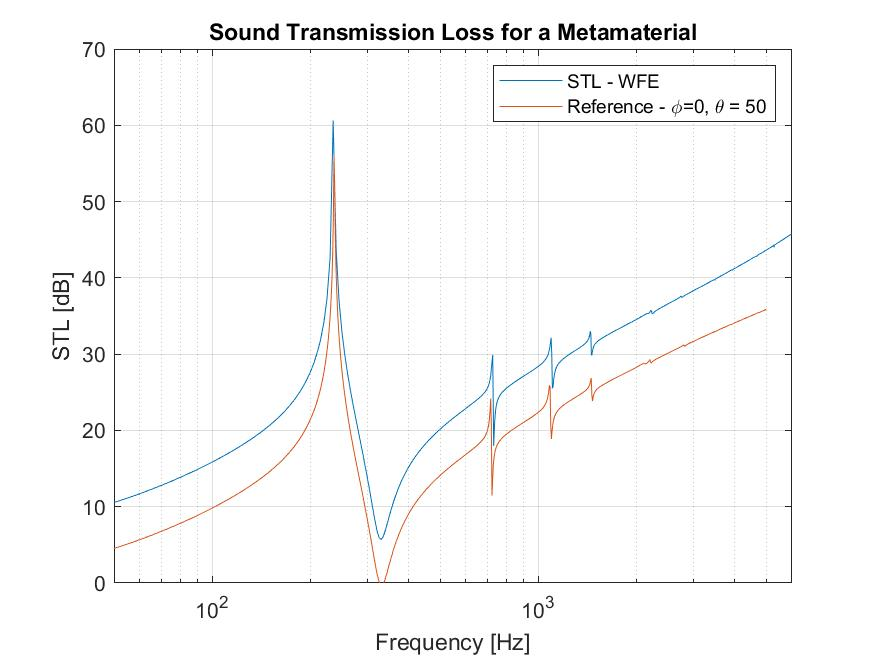
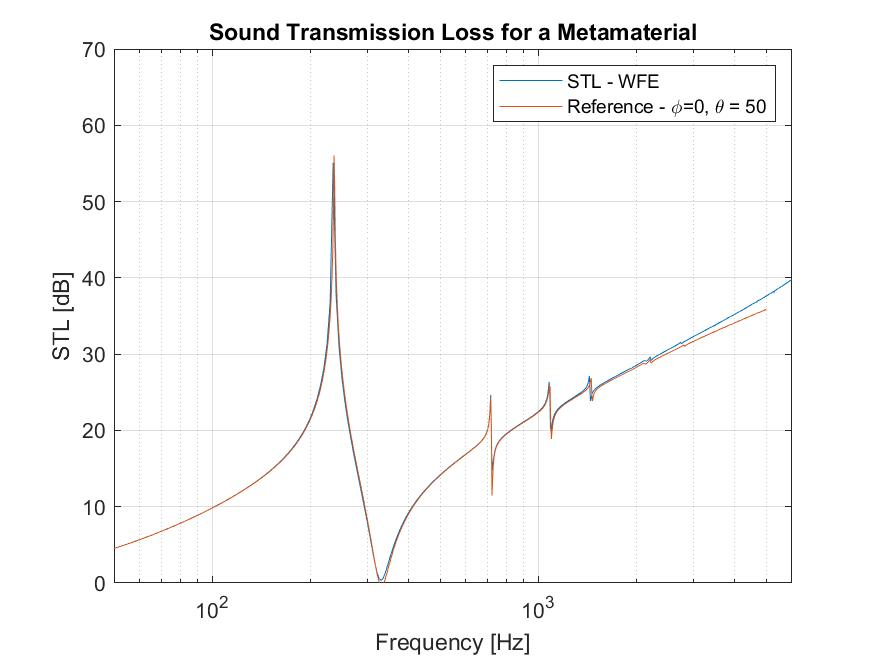
alteracoes 20/07/22

diff --git a/consolidado_lumped/main_stl_plate_resonators_consolidado_caso_geral.m b/consolidado_lumped/main_stl_plate_resonators_consolidado_caso_geral.m
@@ -202,8 +202,8 @@ kzmn_p(i,:,:) = kz1mn;
 rho1=rho0;
 rho2=rho0;
 %Equation 10
-Df1mn = (-1j*rho1*w^2)./(kz1mn);
-Df2mn = (-1j*rho2*w^2)./(kz2mn); 
+Df1mn = (1j*rho1*w^2)./(kz1mn);
+Df2mn = (1j*rho2*w^2)./(kz2mn); 
 
 % end Part 6
 
@@ -218,7 +218,7 @@ Fext2=zeros(GDof+numberRes,1);
 Fext = force_external_lumped(nnode,nelem,elem,nodes,P_inc,kx,ky,A_element);
 
 %Adding rotational degrees of freedom
-Fext2(1:3:GDof)= Fext;
+Fext2(1:3:GDof)= 2*Fext;
  
 % end Part 7
 
@@ -328,7 +328,7 @@ W1_mn= zeros(m_index,n_index);
  
  %Amplitude of the sound pressure harmonics
  %Equation 9
- P1_mn = -Df1mn.*W1_mn;
+ P1_mn = Df1mn.*W1_mn;
  P2_mn =  Df2mn.*W2_mn;
  
  
@@ -359,12 +359,9 @@ tau1_aux =(1/rho1)*kz1mn;
 
 tau_mn_num= real(tau2_aux.*abs(P2_mn.^2));
 tau_mn_den = tau1_aux.*abs((P_inc*ones(m_index,n_index)).^2);
-% tau_mn_num= real(abs(P2_mn.^2));
-% tau_mn_den = abs((P_inc*ones(m_index,n_index)).^2);
-
-
 
 tau_mn = tau_mn_num./tau_mn_den;
+
 %summation
 tau = sum(sum(tau_mn),2);     
 
@@ -392,19 +389,26 @@ end
 
 %% AMPLITUDE OF HARMONICS GRAPH
 
-figure
+% figure
+% 
+% W1_mn_interest = W1_mn_store(:,:,20);
+% stem3(m,n,real(W1_mn_interest),'filled')
+% hold on
+% stem3(m,n,imag(W1_mn_interest),'--*r')
+% title('Absolute values of harmonics for a given frequency')
+% 
+% figure
+% max_W1_mn=max(W1_mn_interest);
+% stem3(m,n,real(W1_mn_interest./max_W1_mn),'filled')
+% hold on
+% stem3(m,n,imag(W1_mn_interest./max_W1_mn),'--*r')
+% title('Normalized values of harmonics for a given frequency')
 
-W1_mn_interest = W1_mn_store(:,:,20);
-stem3(m,n,real(W1_mn_interest),'filled')
-hold on
-stem3(m,n,imag(W1_mn_interest),'--*r')
-title('Absolute values of harmonics for a given frequency')
 
 figure
-max_W1_mn=max(W1_mn_interest);
-stem3(m,n,real(W1_mn_interest./max_W1_mn),'filled')
-hold on
-stem3(m,n,imag(W1_mn_interest./max_W1_mn),'--*r')
+W1_mn_interest = W1_mn_store(:,:,57);
+max_W1_mn = max(max(W1_mn_interest));
+heatmap(m,n,log10(abs(real(W1_mn_interest./max_W1_mn))))
 title('Normalized values of harmonics for a given frequency')
 
 
@@ -460,59 +464,59 @@ figure
 %     end
 % end
 
-plot(f,abs(real(kzmn_p(:,5,1))),'LineWidth',2)
-hold on
-plot(f,-abs(imag(kzmn_p(:,5,1))),'LineWidth',2)
-hold on
-plot(f,abs(real(kzmn_p(:,6,1))),'LineWidth',2)
-hold on
-plot(f,-abs(imag(kzmn_p(:,6,1))),'LineWidth',2)
-hold on
-plot(f,abs(real(kzmn_p(:,7,1))),'LineWidth',2)
-hold on
-plot(f,-abs(imag(kzmn_p(:,7,1))),'LineWidth',2)
-hold on
-plot(f,abs(real(kzmn_p(:,8,1))),'LineWidth',2)
-hold on
-plot(f,-abs(imag(kzmn_p(:,8,1))),'LineWidth',2)
-hold on
-plot(f,abs(real(kzmn_p(:,9,1))),'LineWidth',2)
-hold on
-plot(f,-abs(imag(kzmn_p(:,9,1))),'LineWidth',2)
-
-legend('Real m=0,n=0','Imag m=0,n=0','Real m=1,n=0','Imag m=1,n=0',...
-    'Real m=2,n=0','Imag m=2,n=0','Real m=3,n=0','Imag m=3,n=0', 'Real m=4,n=0','Imag m=4,n=0')
-
-title('Postive Harmonics of kzmn at the fluid')
-xlabel('Frequency [Hz]')
-ylabel('kz_mn [2\pi/m]')  
-
-figure
-
-plot(f,abs(real(kzmn_p(:,1,1))),'LineWidth',2)
-hold on
-plot(f,-abs(imag(kzmn_p(:,1,1))),'LineWidth',2)
-hold on
-plot(f,abs(real(kzmn_p(:,2,1))),'LineWidth',2)
-hold on
-plot(f,-abs(imag(kzmn_p(:,2,1))),'LineWidth',2)
-hold on
-plot(f,abs(real(kzmn_p(:,3,1))),'LineWidth',2)
-hold on
-plot(f,-abs(imag(kzmn_p(:,3,1))),'LineWidth',2)
-hold on
-plot(f,abs(real(kzmn_p(:,4,1))),'LineWidth',2)
-hold on
-plot(f,-abs(imag(kzmn_p(:,4,1))),'LineWidth',2)
-
-
-
-legend('Real m=-4,n=0','Imag m=-4,n=0','Real m=-3,n=0','Imag m=-3,n=0',...
-    'Real m=-2,n=0','Imag m=-2,n=0','Real m=-1,n=0','Imag m=-1,n=0')
-
-title('Negative Harmonics of kzmn at the fluid')
-xlabel('Frequency [Hz]')
-ylabel('kz_mn [2\pi/m]')  
+% plot(f,abs(real(kzmn_p(:,5,1))),'LineWidth',2)
+% hold on
+% plot(f,-abs(imag(kzmn_p(:,5,1))),'LineWidth',2)
+% hold on
+% plot(f,abs(real(kzmn_p(:,6,1))),'LineWidth',2)
+% hold on
+% plot(f,-abs(imag(kzmn_p(:,6,1))),'LineWidth',2)
+% hold on
+% plot(f,abs(real(kzmn_p(:,7,1))),'LineWidth',2)
+% hold on
+% plot(f,-abs(imag(kzmn_p(:,7,1))),'LineWidth',2)
+% hold on
+% plot(f,abs(real(kzmn_p(:,8,1))),'LineWidth',2)
+% hold on
+% plot(f,-abs(imag(kzmn_p(:,8,1))),'LineWidth',2)
+% hold on
+% plot(f,abs(real(kzmn_p(:,9,1))),'LineWidth',2)
+% hold on
+% plot(f,-abs(imag(kzmn_p(:,9,1))),'LineWidth',2)
+% 
+% legend('Real m=0,n=0','Imag m=0,n=0','Real m=1,n=0','Imag m=1,n=0',...
+%     'Real m=2,n=0','Imag m=2,n=0','Real m=3,n=0','Imag m=3,n=0', 'Real m=4,n=0','Imag m=4,n=0')
+% 
+% title('Postive Harmonics of kzmn at the fluid')
+% xlabel('Frequency [Hz]')
+% ylabel('kz_mn [2\pi/m]')  
+% 
+% figure
+% 
+% plot(f,abs(real(kzmn_p(:,1,1))),'LineWidth',2)
+% hold on
+% plot(f,-abs(imag(kzmn_p(:,1,1))),'LineWidth',2)
+% hold on
+% plot(f,abs(real(kzmn_p(:,2,1))),'LineWidth',2)
+% hold on
+% plot(f,-abs(imag(kzmn_p(:,2,1))),'LineWidth',2)
+% hold on
+% plot(f,abs(real(kzmn_p(:,3,1))),'LineWidth',2)
+% hold on
+% plot(f,-abs(imag(kzmn_p(:,3,1))),'LineWidth',2)
+% hold on
+% plot(f,abs(real(kzmn_p(:,4,1))),'LineWidth',2)
+% hold on
+% plot(f,-abs(imag(kzmn_p(:,4,1))),'LineWidth',2)
+% 
+% 
+% 
+% legend('Real m=-4,n=0','Imag m=-4,n=0','Real m=-3,n=0','Imag m=-3,n=0',...
+%     'Real m=-2,n=0','Imag m=-2,n=0','Real m=-1,n=0','Imag m=-1,n=0')
+% 
+% title('Negative Harmonics of kzmn at the fluid')
+% xlabel('Frequency [Hz]')
+% ylabel('kz_mn [2\pi/m]')  
 
 
 

diff --git a/consolidado_lumped/subprogram_inputdata_onlyky.m b/consolidado_lumped/subprogram_inputdata_onlyky.m
@@ -48,8 +48,8 @@ el_side_y = Ly/nel_y;
 % SPACE HARMONICS
 
 %index of harmonics
- m= -4:1:4;
- n=-4:1:4;
+ m= -5:1:5;
+ n=-5:1:5;
 
 [MM,NN]=meshgrid(m,n);
 

diff --git a/consolidado_lumped/subprogram_inputdata_kxandky.m b/consolidado_lumped/subprogram_inputdata_kxandky.m
@@ -48,8 +48,8 @@ el_side_y = Ly/nel_y;
 % SPACE HARMONICS
 
 %index of harmonics
-m= -4:1:4;
-n=-4:1:4;
+m= -5:1:5;
+n=-5:1:5;
 %
 [MM,NN]=meshgrid(m,n);
 

diff --git a/consolidado_lumped/subprogram_inputdata_onlykx.m b/consolidado_lumped/subprogram_inputdata_onlykx.m
@@ -48,8 +48,8 @@ el_side_y = Ly/nel_y;
 % SPACE HARMONICS
 
 %index of harmonics
-m= -4:1:4;
-n=-4:1:4;
+m= -5:1:5;
+n=-5:1:5;
 %
 [MM,NN]=meshgrid(m,n);
 
